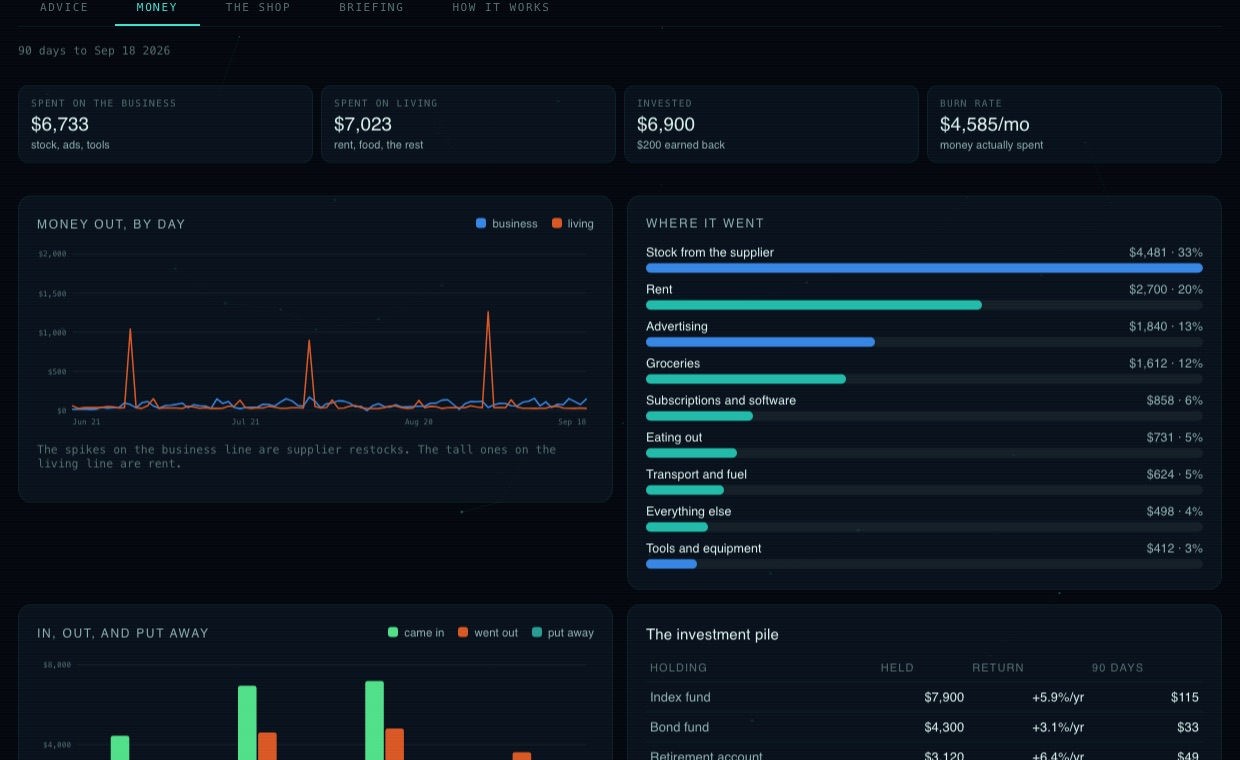
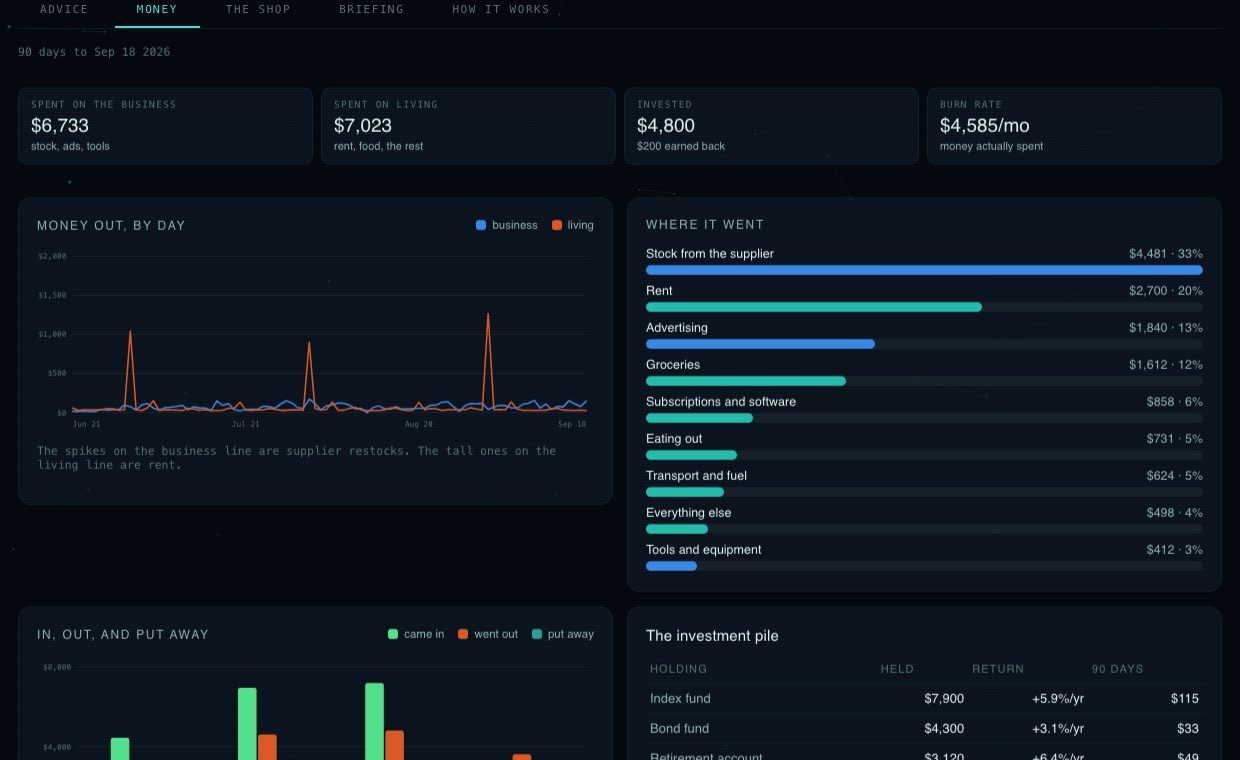
ESTAZY demo: the demo business finishes the quarter in the black
The advice was resting on a negative cash line, which reads as a failing
business rather than a point about where spare money goes. The monthly
transfer drops to $1,600 so the quarter closes $1,898 up, and the argument
is now opportunity cost: nothing is losing money, one engine is simply about
seventy times faster than the other.

diff --git a/estazy/demo.js b/estazy/demo.js
@@ -1,4 +1,4 @@
-const DATA = {"dates":["2026-06-21","2026-06-22","2026-06-23","2026-06-24","2026-06-25","2026-06-26","2026-06-27","2026-06-28","2026-06-29","2026-06-30","2026-07-01","2026-07-02","2026-07-03","2026-07-04","2026-07-05","2026-07-06","2026-07-07","2026-07-08","2026-07-09","2026-07-10","2026-07-11","2026-07-12","2026-07-13","2026-07-14","2026-07-15","2026-07-16","2026-07-17","2026-07-18","2026-07-19","2026-07-20","2026-07-21","2026-07-22","2026-07-23","2026-07-24","2026-07-25","2026-07-26","2026-07-27","2026-07-28","2026-07-29","2026-07-30","2026-07-31","2026-08-01","2026-08-02","2026-08-03","2026-08-04","2026-08-05","2026-08-06","2026-08-07","2026-08-08","2026-08-09","2026-08-10","2026-08-11","2026-08-12","2026-08-13","2026-08-14","2026-08-15","2026-08-16","2026-08-17","2026-08-18","2026-08-19","2026-08-20","2026-08-21","2026-08-22","2026-08-23","2026-08-24","2026-08-25","2026-08-26","2026-08-27","2026-08-28","2026-08-29","2026-08-30","2026-08-31","2026-09-01","2026-09-02","2026-09-03","2026-09-04","2026-09-05","2026-09-06","2026-09-07","2026-09-08","2026-09-09","2026-09-10","2026-09-11","2026-09-12","2026-09-13","2026-09-14","2026-09-15","2026-09-16","2026-09-17","2026-09-18"],"ads":[13.82,15.33,20.12,14.49,15.2,16.42,11.27,15.78,17.55,19.97,10.52,13.56,10.7,21.07,19.62,10.32,24.27,24.25,19.83,19.44,12.62,10.54,18.65,0.0,0.0,14.58,11.29,18.48,18.26,25.11,19.91,22.13,19.93,22.9,19.53,16.56,29.42,29.63,27.08,24.9,17.94,16.51,17.74,13.79,27.02,20.28,28.98,20.33,31.6,29.67,13.17,0.0,0.0,0.0,33.49,21.8,15.26,26.93,30.24,19.74,16.0,21.35,35.09,30.87,17.12,20.05,16.97,16.17,32.79,19.04,27.83,25.46,19.72,32.37,18.58,30.72,18.47,0.0,21.01,22.5,39.6,35.76,23.76,38.2,21.73,26.44,38.13,32.99,19.45,42.29],"placed":[3,4,4,2,3,4,4,4,4,5,1,4,5,5,2,2,5,6,6,3,4,4,4,0,1,6,5,3,4,5,8,5,5,7,5,6,5,5,7,7,5,5,2,3,5,4,7,4,7,6,3,0,1,1,5,5,2,8,9,5,4,3,7,6,7,5,3,1,9,5,3,5,2,14,5,7,4,0,5,2,8,2,4,10,7,3,4,8,5,5],"delivered":[0,0,0,0,0,1,1,1,0,4,3,1,4,4,2,1,2,2,3,3,1,3,2,3,1,7,3,5,1,0,1,1,1,3,3,2,4,6,5,2,2,8,5,1,3,4,4,4,3,0,2,0,3,4,1,1,3,1,1,1,2,1,3,3,6,6,3,0,2,5,4,4,1,2,3,3,2,3,4,5,6,1,4,0,3,2,5,3,3,5],"rev":[0.0,0.0,0.0,0.0,0.0,34.0,34.0,34.0,0.0,136.0,102.0,34.0,136.0,136.0,68.0,34.0,68.0,68.0,102.0,102.0,34.0,102.0,68.0,102.0,34.0,238.0,102.0,170.0,34.0,0.0,34.0,34.0,34.0,102.0,102.0,68.0,136.0,204.0,170.0,68.0,68.0,272.0,170.0,34.0,102.0,136.0,136.0,136.0,102.0,0.0,68.0,0.0,102.0,136.0,34.0,34.0,102.0,34.0,34.0,34.0,68.0,34.0,102.0,102.0,204.0,204.0,102.0,0.0,68.0,170.0,136.0,136.0,34.0,68.0,102.0,102.0,68.0,102.0,136.0,170.0,204.0,34.0,136.0,0.0,102.0,68.0,170.0,102.0,102.0,170.0],"cogs":[0.0,0.0,0.0,0.0,0.0,19.4,19.4,19.4,0.0,77.6,58.2,19.4,77.6,77.6,38.8,19.4,38.8,38.8,58.2,58.2,19.4,58.2,38.8,58.2,19.4,135.8,58.2,97.0,19.4,0.0,19.4,19.4,19.4,58.2,58.2,38.8,77.6,116.4,97.0,38.8,38.8,155.2,97.0,19.4,58.2,77.6,77.6,77.6,58.2,0.0,38.8,0.0,58.2,77.6,19.4,19.4,58.2,19.4,19.4,19.4,38.8,19.4,58.2,58.2,116.4,116.4,58.2,0.0,38.8,97.0,77.6,77.6,19.4,38.8,58.2,58.2,38.8,58.2,77.6,97.0,116.4,19.4,77.6,0.0,58.2,38.8,97.0,58.2,58.2,97.0],"tools":[3.58,0.02,0.03,0.0,1.04,5.56,0.0,0.0,21.54,0.8,8.01,0.31,10.41,16.72,0.01,0.04,0.01,5.18,1.23,16.33,3.41,6.33,3.2,0.23,8.77,0.08,21.38,1.79,0.1,0.03,0.2,0.86,2.18,0.04,0.28,0.17,0.0,5.87,0.09,1.91,0.18,0.07,3.18,1.57,2.46,0.03,17.21,22.51,5.66,17.38,2.35,0.0,4.28,8.24,0.01,1.18,0.69,0.28,0.0,13.13,0.11,13.77,0.95,6.43,0.07,2.38,2.02,0.0,15.89,0.02,7.01,14.67,0.28,0.01,17.24,0.0,4.99,0.4,7.49,0.39,0.02,2.89,9.81,0.97,0.6,8.5,16.94,22.55,0.01,7.44],"business":[17.4,15.35,20.15,14.49,16.24,41.38,30.67,35.18,39.09,98.37,76.73,33.27,98.71,115.39,58.43,29.76,63.08,68.23,79.26,93.97,35.43,75.07,60.65,58.43,28.17,150.46,90.87,117.27,37.76,25.14,39.51,42.39,41.51,81.14,78.01,55.53,107.02,151.9,124.17,65.61,56.92,171.78,117.92,34.76,87.68,97.91,123.79,120.44,95.46,47.05,54.32,0.0,62.48,85.84,52.9,42.38,74.15,46.61,49.64,52.27,54.91,54.52,94.24,95.5,133.59,138.83,77.19,16.17,87.48,116.06,112.44,117.73,39.4,71.18,94.02,88.92,62.26,58.6,106.1,119.89,156.02,58.05,111.17,39.17,80.53,73.74,152.07,113.74,77.66,146.73],"personal":[59.56,26.93,38.0,37.59,37.36,37.76,52.48,48.21,31.58,37.37,1044.16,36.06,28.04,62.09,151.39,27.87,35.67,34.11,32.78,26.87,55.03,46.77,28.8,37.9,28.1,27.83,30.69,55.94,54.11,131.46,35.06,27.25,35.76,33.14,53.65,43.43,28.59,28.66,34.91,36.18,31.82,901.01,51.7,32.51,38.29,134.78,30.23,31.37,54.71,63.96,34.72,27.05,27.14,27.99,34.72,57.22,58.7,36.22,27.75,31.88,130.3,35.29,53.01,49.19,27.64,36.05,37.13,36.98,35.38,61.95,46.22,34.21,1265.07,35.77,38.38,35.84,137.92,44.86,28.6,31.0,27.59,30.15,29.69,52.89,56.47,31.9,31.08,27.49,34.14,27.9],"invest":[0.0,0.0,0.0,0.0,0.0,0.0,0.0,0.0,0.0,0.0,0.0,2300.0,0.0,0.0,0.0,0.0,0.0,0.0,0.0,0.0,0.0,0.0,0.0,0.0,0.0,0.0,0.0,0.0,0.0,0.0,0.0,0.0,0.0,0.0,0.0,0.0,0.0,0.0,0.0,0.0,0.0,0.0,2300.0,0.0,0.0,0.0,0.0,0.0,0.0,0.0,0.0,0.0,0.0,0.0,0.0,0.0,0.0,0.0,0.0,0.0,0.0,0.0,0.0,0.0,0.0,0.0,0.0,0.0,0.0,0.0,0.0,0.0,0.0,2300.0,0.0,0.0,0.0,0.0,0.0,0.0,0.0,0.0,0.0,0.0,0.0,0.0,0.0,0.0,0.0,0.0],"salary":[0.0,0.0,0.0,0.0,0.0,0.0,0.0,4200.0,0.0,0.0,0.0,0.0,0.0,0.0,0.0,0.0,0.0,0.0,0.0,0.0,0.0,0.0,0.0,0.0,0.0,0.0,0.0,0.0,0.0,0.0,0.0,0.0,0.0,0.0,0.0,0.0,0.0,4200.0,0.0,0.0,0.0,0.0,0.0,0.0,0.0,0.0,0.0,0.0,0.0,0.0,0.0,0.0,0.0,0.0,0.0,0.0,0.0,0.0,0.0,0.0,0.0,0.0,0.0,0.0,0.0,0.0,0.0,0.0,4200.0,0.0,0.0,0.0,0.0,0.0,0.0,0.0,0.0,0.0,0.0,0.0,0.0,0.0,0.0,0.0,0.0,0.0,0.0,0.0,0.0,0.0]};
+const DATA = {"dates":["2026-06-21","2026-06-22","2026-06-23","2026-06-24","2026-06-25","2026-06-26","2026-06-27","2026-06-28","2026-06-29","2026-06-30","2026-07-01","2026-07-02","2026-07-03","2026-07-04","2026-07-05","2026-07-06","2026-07-07","2026-07-08","2026-07-09","2026-07-10","2026-07-11","2026-07-12","2026-07-13","2026-07-14","2026-07-15","2026-07-16","2026-07-17","2026-07-18","2026-07-19","2026-07-20","2026-07-21","2026-07-22","2026-07-23","2026-07-24","2026-07-25","2026-07-26","2026-07-27","2026-07-28","2026-07-29","2026-07-30","2026-07-31","2026-08-01","2026-08-02","2026-08-03","2026-08-04","2026-08-05","2026-08-06","2026-08-07","2026-08-08","2026-08-09","2026-08-10","2026-08-11","2026-08-12","2026-08-13","2026-08-14","2026-08-15","2026-08-16","2026-08-17","2026-08-18","2026-08-19","2026-08-20","2026-08-21","2026-08-22","2026-08-23","2026-08-24","2026-08-25","2026-08-26","2026-08-27","2026-08-28","2026-08-29","2026-08-30","2026-08-31","2026-09-01","2026-09-02","2026-09-03","2026-09-04","2026-09-05","2026-09-06","2026-09-07","2026-09-08","2026-09-09","2026-09-10","2026-09-11","2026-09-12","2026-09-13","2026-09-14","2026-09-15","2026-09-16","2026-09-17","2026-09-18"],"ads":[13.82,15.33,20.12,14.49,15.2,16.42,11.27,15.78,17.55,19.97,10.52,13.56,10.7,21.07,19.62,10.32,24.27,24.25,19.83,19.44,12.62,10.54,18.65,0.0,0.0,14.58,11.29,18.48,18.26,25.11,19.91,22.13,19.93,22.9,19.53,16.56,29.42,29.63,27.08,24.9,17.94,16.51,17.74,13.79,27.02,20.28,28.98,20.33,31.6,29.67,13.17,0.0,0.0,0.0,33.49,21.8,15.26,26.93,30.24,19.74,16.0,21.35,35.09,30.87,17.12,20.05,16.97,16.17,32.79,19.04,27.83,25.46,19.72,32.37,18.58,30.72,18.47,0.0,21.01,22.5,39.6,35.76,23.76,38.2,21.73,26.44,38.13,32.99,19.45,42.29],"placed":[3,4,4,2,3,4,4,4,4,5,1,4,5,5,2,2,5,6,6,3,4,4,4,0,1,6,5,3,4,5,8,5,5,7,5,6,5,5,7,7,5,5,2,3,5,4,7,4,7,6,3,0,1,1,5,5,2,8,9,5,4,3,7,6,7,5,3,1,9,5,3,5,2,14,5,7,4,0,5,2,8,2,4,10,7,3,4,8,5,5],"delivered":[0,0,0,0,0,1,1,1,0,4,3,1,4,4,2,1,2,2,3,3,1,3,2,3,1,7,3,5,1,0,1,1,1,3,3,2,4,6,5,2,2,8,5,1,3,4,4,4,3,0,2,0,3,4,1,1,3,1,1,1,2,1,3,3,6,6,3,0,2,5,4,4,1,2,3,3,2,3,4,5,6,1,4,0,3,2,5,3,3,5],"rev":[0.0,0.0,0.0,0.0,0.0,34.0,34.0,34.0,0.0,136.0,102.0,34.0,136.0,136.0,68.0,34.0,68.0,68.0,102.0,102.0,34.0,102.0,68.0,102.0,34.0,238.0,102.0,170.0,34.0,0.0,34.0,34.0,34.0,102.0,102.0,68.0,136.0,204.0,170.0,68.0,68.0,272.0,170.0,34.0,102.0,136.0,136.0,136.0,102.0,0.0,68.0,0.0,102.0,136.0,34.0,34.0,102.0,34.0,34.0,34.0,68.0,34.0,102.0,102.0,204.0,204.0,102.0,0.0,68.0,170.0,136.0,136.0,34.0,68.0,102.0,102.0,68.0,102.0,136.0,170.0,204.0,34.0,136.0,0.0,102.0,68.0,170.0,102.0,102.0,170.0],"cogs":[0.0,0.0,0.0,0.0,0.0,19.4,19.4,19.4,0.0,77.6,58.2,19.4,77.6,77.6,38.8,19.4,38.8,38.8,58.2,58.2,19.4,58.2,38.8,58.2,19.4,135.8,58.2,97.0,19.4,0.0,19.4,19.4,19.4,58.2,58.2,38.8,77.6,116.4,97.0,38.8,38.8,155.2,97.0,19.4,58.2,77.6,77.6,77.6,58.2,0.0,38.8,0.0,58.2,77.6,19.4,19.4,58.2,19.4,19.4,19.4,38.8,19.4,58.2,58.2,116.4,116.4,58.2,0.0,38.8,97.0,77.6,77.6,19.4,38.8,58.2,58.2,38.8,58.2,77.6,97.0,116.4,19.4,77.6,0.0,58.2,38.8,97.0,58.2,58.2,97.0],"tools":[3.58,0.02,0.03,0.0,1.04,5.56,0.0,0.0,21.54,0.8,8.01,0.31,10.41,16.72,0.01,0.04,0.01,5.18,1.23,16.33,3.41,6.33,3.2,0.23,8.77,0.08,21.38,1.79,0.1,0.03,0.2,0.86,2.18,0.04,0.28,0.17,0.0,5.87,0.09,1.91,0.18,0.07,3.18,1.57,2.46,0.03,17.21,22.51,5.66,17.38,2.35,0.0,4.28,8.24,0.01,1.18,0.69,0.28,0.0,13.13,0.11,13.77,0.95,6.43,0.07,2.38,2.02,0.0,15.89,0.02,7.01,14.67,0.28,0.01,17.24,0.0,4.99,0.4,7.49,0.39,0.02,2.89,9.81,0.97,0.6,8.5,16.94,22.55,0.01,7.44],"business":[17.4,15.35,20.15,14.49,16.24,41.38,30.67,35.18,39.09,98.37,76.73,33.27,98.71,115.39,58.43,29.76,63.08,68.23,79.26,93.97,35.43,75.07,60.65,58.43,28.17,150.46,90.87,117.27,37.76,25.14,39.51,42.39,41.51,81.14,78.01,55.53,107.02,151.9,124.17,65.61,56.92,171.78,117.92,34.76,87.68,97.91,123.79,120.44,95.46,47.05,54.32,0.0,62.48,85.84,52.9,42.38,74.15,46.61,49.64,52.27,54.91,54.52,94.24,95.5,133.59,138.83,77.19,16.17,87.48,116.06,112.44,117.73,39.4,71.18,94.02,88.92,62.26,58.6,106.1,119.89,156.02,58.05,111.17,39.17,80.53,73.74,152.07,113.74,77.66,146.73],"personal":[59.56,26.93,38.0,37.59,37.36,37.76,52.48,48.21,31.58,37.37,1044.16,36.06,28.04,62.09,151.39,27.87,35.67,34.11,32.78,26.87,55.03,46.77,28.8,37.9,28.1,27.83,30.69,55.94,54.11,131.46,35.06,27.25,35.76,33.14,53.65,43.43,28.59,28.66,34.91,36.18,31.82,901.01,51.7,32.51,38.29,134.78,30.23,31.37,54.71,63.96,34.72,27.05,27.14,27.99,34.72,57.22,58.7,36.22,27.75,31.88,130.3,35.29,53.01,49.19,27.64,36.05,37.13,36.98,35.38,61.95,46.22,34.21,1265.07,35.77,38.38,35.84,137.92,44.86,28.6,31.0,27.59,30.15,29.69,52.89,56.47,31.9,31.08,27.49,34.14,27.9],"invest":[0.0,0.0,0.0,0.0,0.0,0.0,0.0,0.0,0.0,0.0,0.0,1600.0,0.0,0.0,0.0,0.0,0.0,0.0,0.0,0.0,0.0,0.0,0.0,0.0,0.0,0.0,0.0,0.0,0.0,0.0,0.0,0.0,0.0,0.0,0.0,0.0,0.0,0.0,0.0,0.0,0.0,0.0,1600.0,0.0,0.0,0.0,0.0,0.0,0.0,0.0,0.0,0.0,0.0,0.0,0.0,0.0,0.0,0.0,0.0,0.0,0.0,0.0,0.0,0.0,0.0,0.0,0.0,0.0,0.0,0.0,0.0,0.0,0.0,1600.0,0.0,0.0,0.0,0.0,0.0,0.0,0.0,0.0,0.0,0.0,0.0,0.0,0.0,0.0,0.0,0.0],"salary":[0.0,0.0,0.0,0.0,0.0,0.0,0.0,4200.0,0.0,0.0,0.0,0.0,0.0,0.0,0.0,0.0,0.0,0.0,0.0,0.0,0.0,0.0,0.0,0.0,0.0,0.0,0.0,0.0,0.0,0.0,0.0,0.0,0.0,0.0,0.0,0.0,0.0,4200.0,0.0,0.0,0.0,0.0,0.0,0.0,0.0,0.0,0.0,0.0,0.0,0.0,0.0,0.0,0.0,0.0,0.0,0.0,0.0,0.0,0.0,0.0,0.0,0.0,0.0,0.0,0.0,0.0,0.0,0.0,4200.0,0.0,0.0,0.0,0.0,0.0,0.0,0.0,0.0,0.0,0.0,0.0,0.0,0.0,0.0,0.0,0.0,0.0,0.0,0.0,0.0,0.0]};
 
 /* ESTAZY demo — a static copy of the real dashboard, filled with one invented
    business in US dollars. Everything on screen is derived from DATA above, so
@@ -260,7 +260,7 @@ function renderTopStats() {
     { label: 'Money in', value: usd(T.in), sub: 'salary and the shop' },
     { label: 'Money out', value: usd(T.out), sub: 'everything spent' },
     { label: 'Put into investments', value: usd(T.invest), sub: 'moved, not spent' },
-    { label: 'Cash left over', value: usd(T.net), sub: T.net < 0 ? 'you went backwards' : 'kept', tone: T.net < 0 ? 'bad' : 'good' },
+    { label: 'Cash left over', value: usd(T.net), sub: 'after everything, including investing', tone: T.net < 0 ? 'bad' : 'good' },
   ]);
   $('hudDate').textContent = `${dayLabel(DATA.dates[0])} to ${dayLabel(DATA.dates[DAYS - 1])} 2026 · ${DAYS} days`;
 }
@@ -273,7 +273,7 @@ function findings() {
       status: 'new',
       title: 'You are feeding the slower of your two engines',
       why: `In 90 days you moved ${usd(T.invest)} into investments and ${usd(T.ads)} into ads. The investments returned ${usd(GAIN)}. The ads returned ${usd(T.kept)} of kept margin, which is ${usd(T.kept - T.ads)} after they paid for themselves.`,
-      body: `A dollar in the investment pile earned 1.1 cents over the quarter. A dollar spent on ads earned ${(T.kept / T.ads - 1).toFixed(2)} of a dollar. That is not a close call, and it is the reason your cash came out at ${usd(T.net)} in a quarter where ${usd(T.in)} came in.`,
+      body: `A dollar in the investment pile earned 1.1 cents over the quarter. A dollar spent on ads earned ${(T.kept / T.ads - 1).toFixed(2)} of a dollar. Nothing here is losing money and you finished ${usd(T.net)} up. The only question is which of the two engines gets fed next, and one of them is about seventy times faster than the other.`,
       action: `Move $2,000 of next quarter's investing into ad budget instead. Leave the retirement account alone. That one is not competing with the shop, it is insurance.`,
       meta: [`${T.delivered} settled orders`, `${T.perAdDollar.toFixed(2)}x kept per ad dollar`, `blended return ${BLENDED.toFixed(1)}%/yr`],
     },
@@ -379,7 +379,7 @@ function renderMoney() {
   columnChart($('flowChart'), months.map(monthName),
     [{ values: inM, color: 'var(--good)' }, { values: outM, color: 'var(--series-2)' }, { values: invM, color: 'var(--cyan-dim)' }],
     (v) => usd(v));
-  $('flowNote').textContent = `June and September are part months here, so their bars are short for calendar reasons, not financial ones. Investing is drawn separately because it is not spending, but it leaves the account all the same, and that is why the quarter ended ${usd(T.net)}.`;
+  $('flowNote').textContent = `June and September are part months here, so their bars are short for calendar reasons, not financial ones. Investing is drawn separately because it is not spending. It is the biggest single call you make each month, and right now it goes to the slower of the two engines.`;
 
   table($('investTable'),
     ['Holding', 'Held', 'Return', '90 days'],
@@ -442,10 +442,11 @@ function renderShop() {
 function renderBriefing() {
   $('briefing').innerHTML = `
     <h2>Friday morning</h2>
-    <p>The quarter closed <strong>${usd(T.net)}</strong> on cash. Not because you spent badly. You
-      spent ${usd(T.out)} against ${usd(T.in)} coming in. It went backwards because ${usd(T.invest)} went into
-      investments on top of that. The money is not lost, it is just somewhere that is earning
-      ${BLENDED.toFixed(1)}% while the shop next to it is turning ${T.perAdDollar.toFixed(2)}x.</p>
+    <p>The quarter closed <strong>${usd(T.net)}</strong> up on cash, on ${usd(T.in)} in and
+      ${usd(T.out)} out, with ${usd(T.invest)} put away on top of that. Nothing here needs rescuing.
+      The one thing worth changing is where the spare money goes: it is sitting in a pile earning
+      ${BLENDED.toFixed(1)}% a year while the shop beside it turns ${T.perAdDollar.toFixed(2)}x in
+      about a month.</p>
 
     <p>The shop had its best week yet: ${usd(Math.max(...byWeek(DATA.rev).map((r, i) => r - byWeek(DATA.cogs)[i])))}
       kept in week ${byWeek(DATA.rev).map((r, i) => r - byWeek(DATA.cogs)[i]).indexOf(Math.max(...byWeek(DATA.rev).map((r, i) => r - byWeek(DATA.cogs)[i]))) + 1}.
